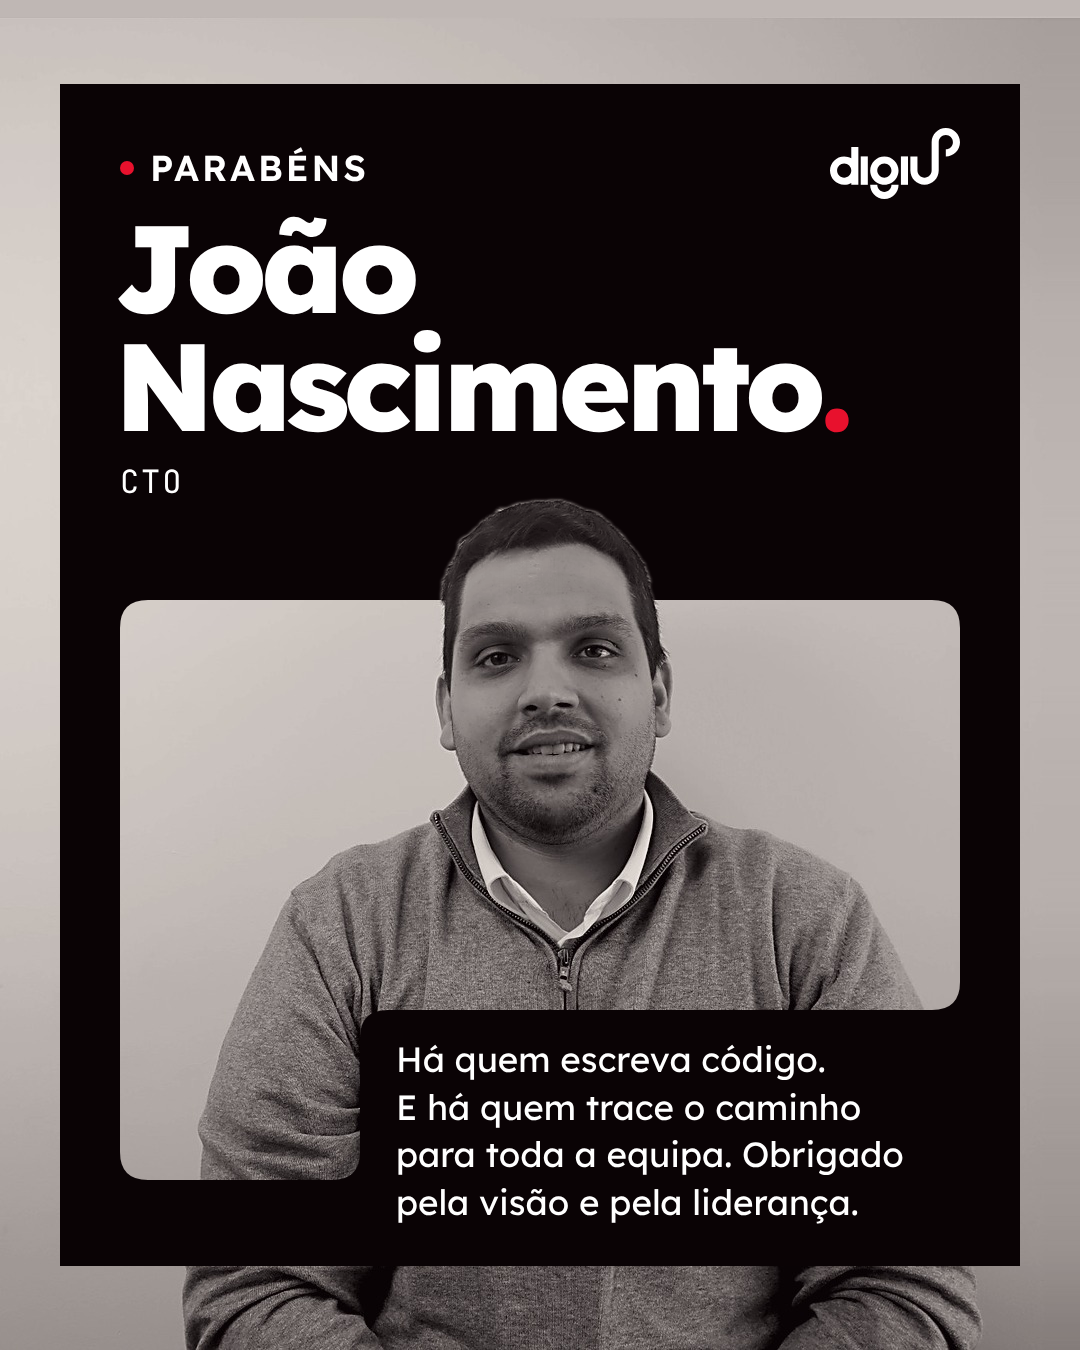
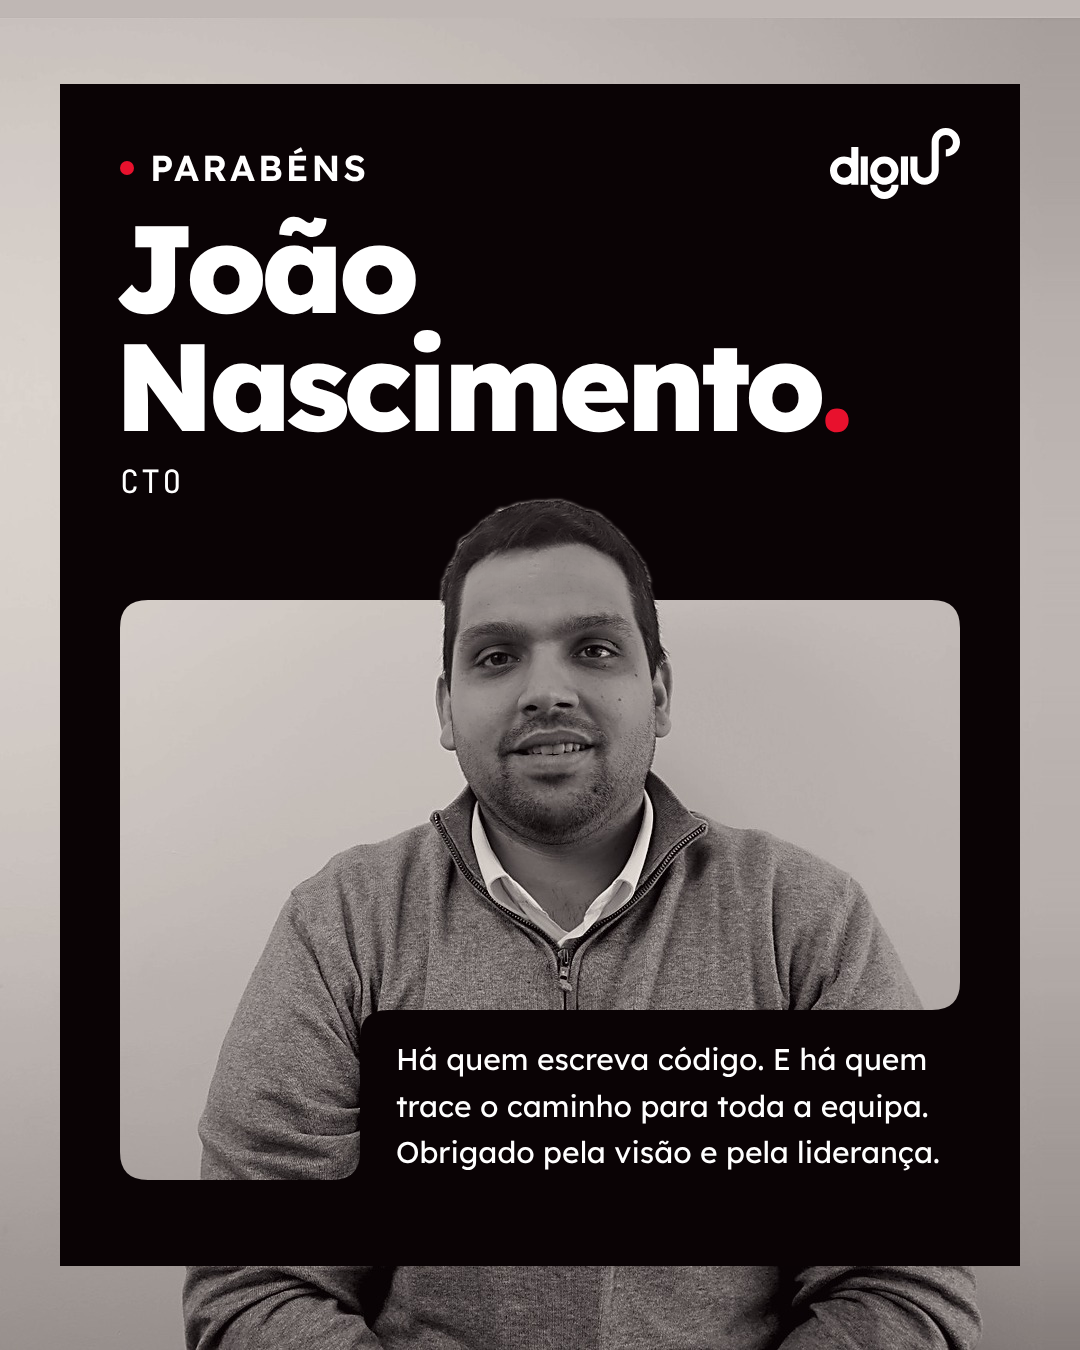
Aniversário do João (preto): texto a 30 px com entrelinha 1,55
Claude-Session: https://claude.ai/code/session_0173GtUhSHhHFQaxLRUGv3dG

Changed region(s): [[0.3667, 0.7778, 0.8556, 0.9022]]

diff --git a/aniversario-joao/post-v2-preto/carrossel.html b/aniversario-joao/post-v2-preto/carrossel.html
@@ -43,7 +43,7 @@ body{background:#17181a;font-family:var(--du-font-sans);padding:56px}
 
 
 
-  <p class="abs" style="left:396px;top:1036px;width:564px;color:var(--du-white);font-size:35px;line-height:1.36;font-weight:400;text-wrap:balance">Há quem escreva código. E&nbsp;há quem trace o caminho para toda a equipa. Obrigado pela visão e pela liderança.</p>
+  <p class="abs" style="left:396px;top:1036px;width:564px;color:var(--du-white);font-size:30px;line-height:1.55;font-weight:400">Há quem escreva código. E há quem trace o caminho para toda a equipa. Obrigado pela visão e pela liderança.</p>
 </section>
 </body>
 </html>
